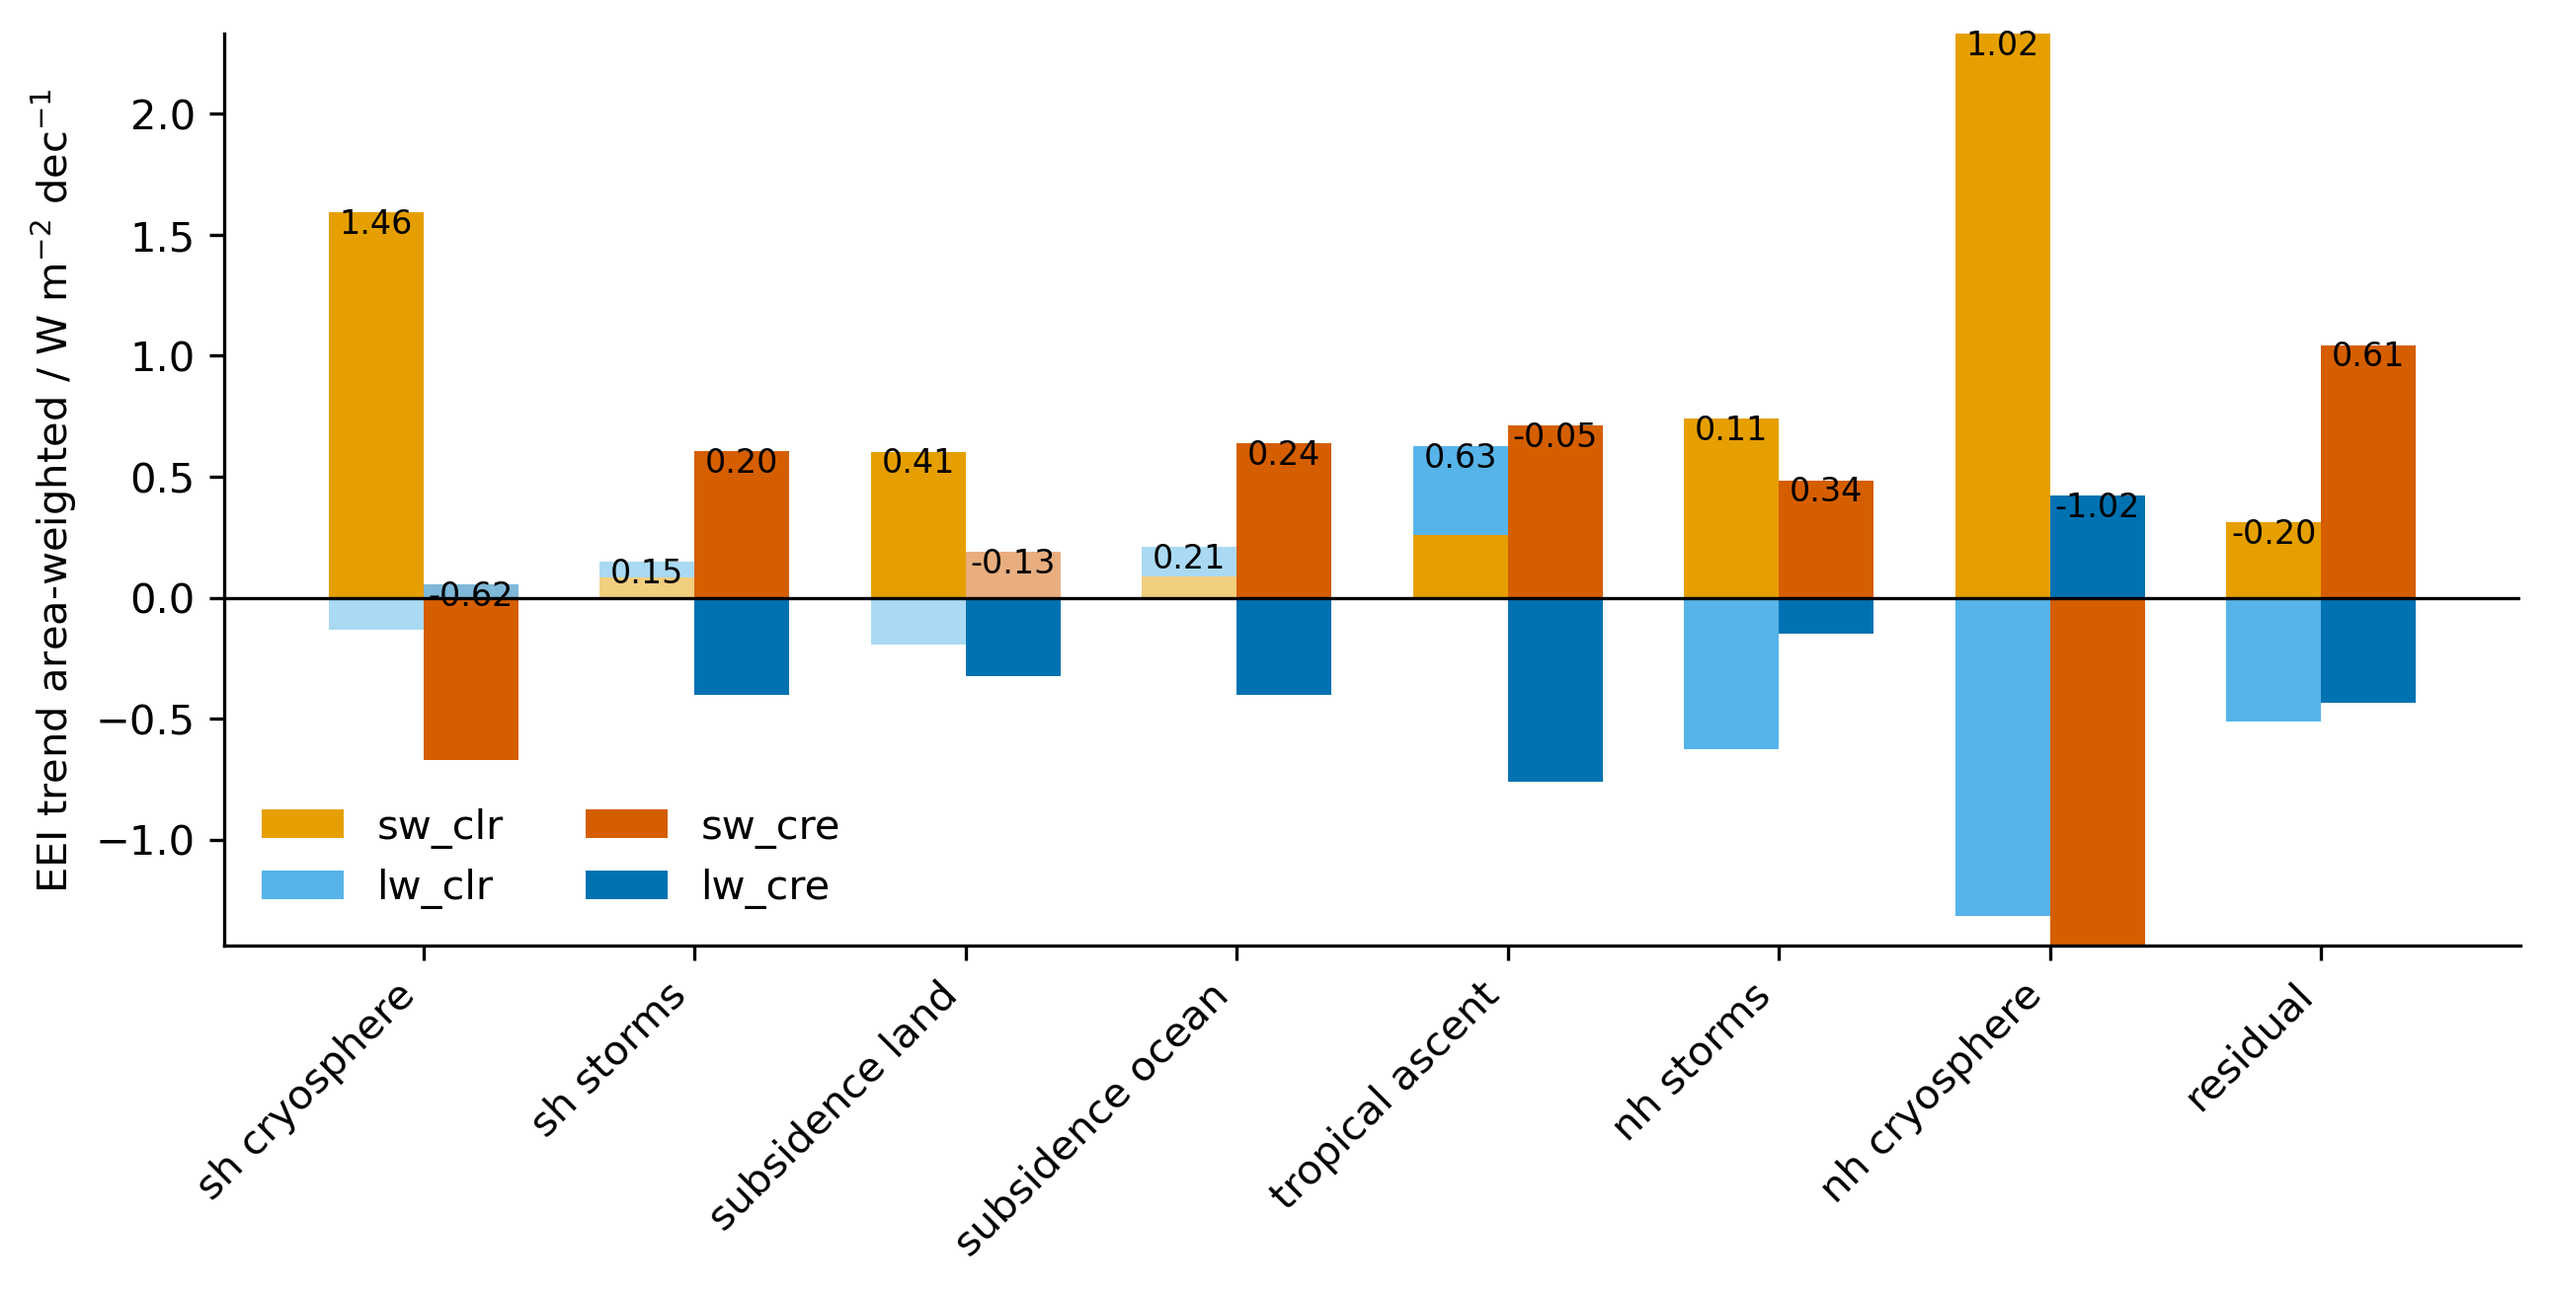
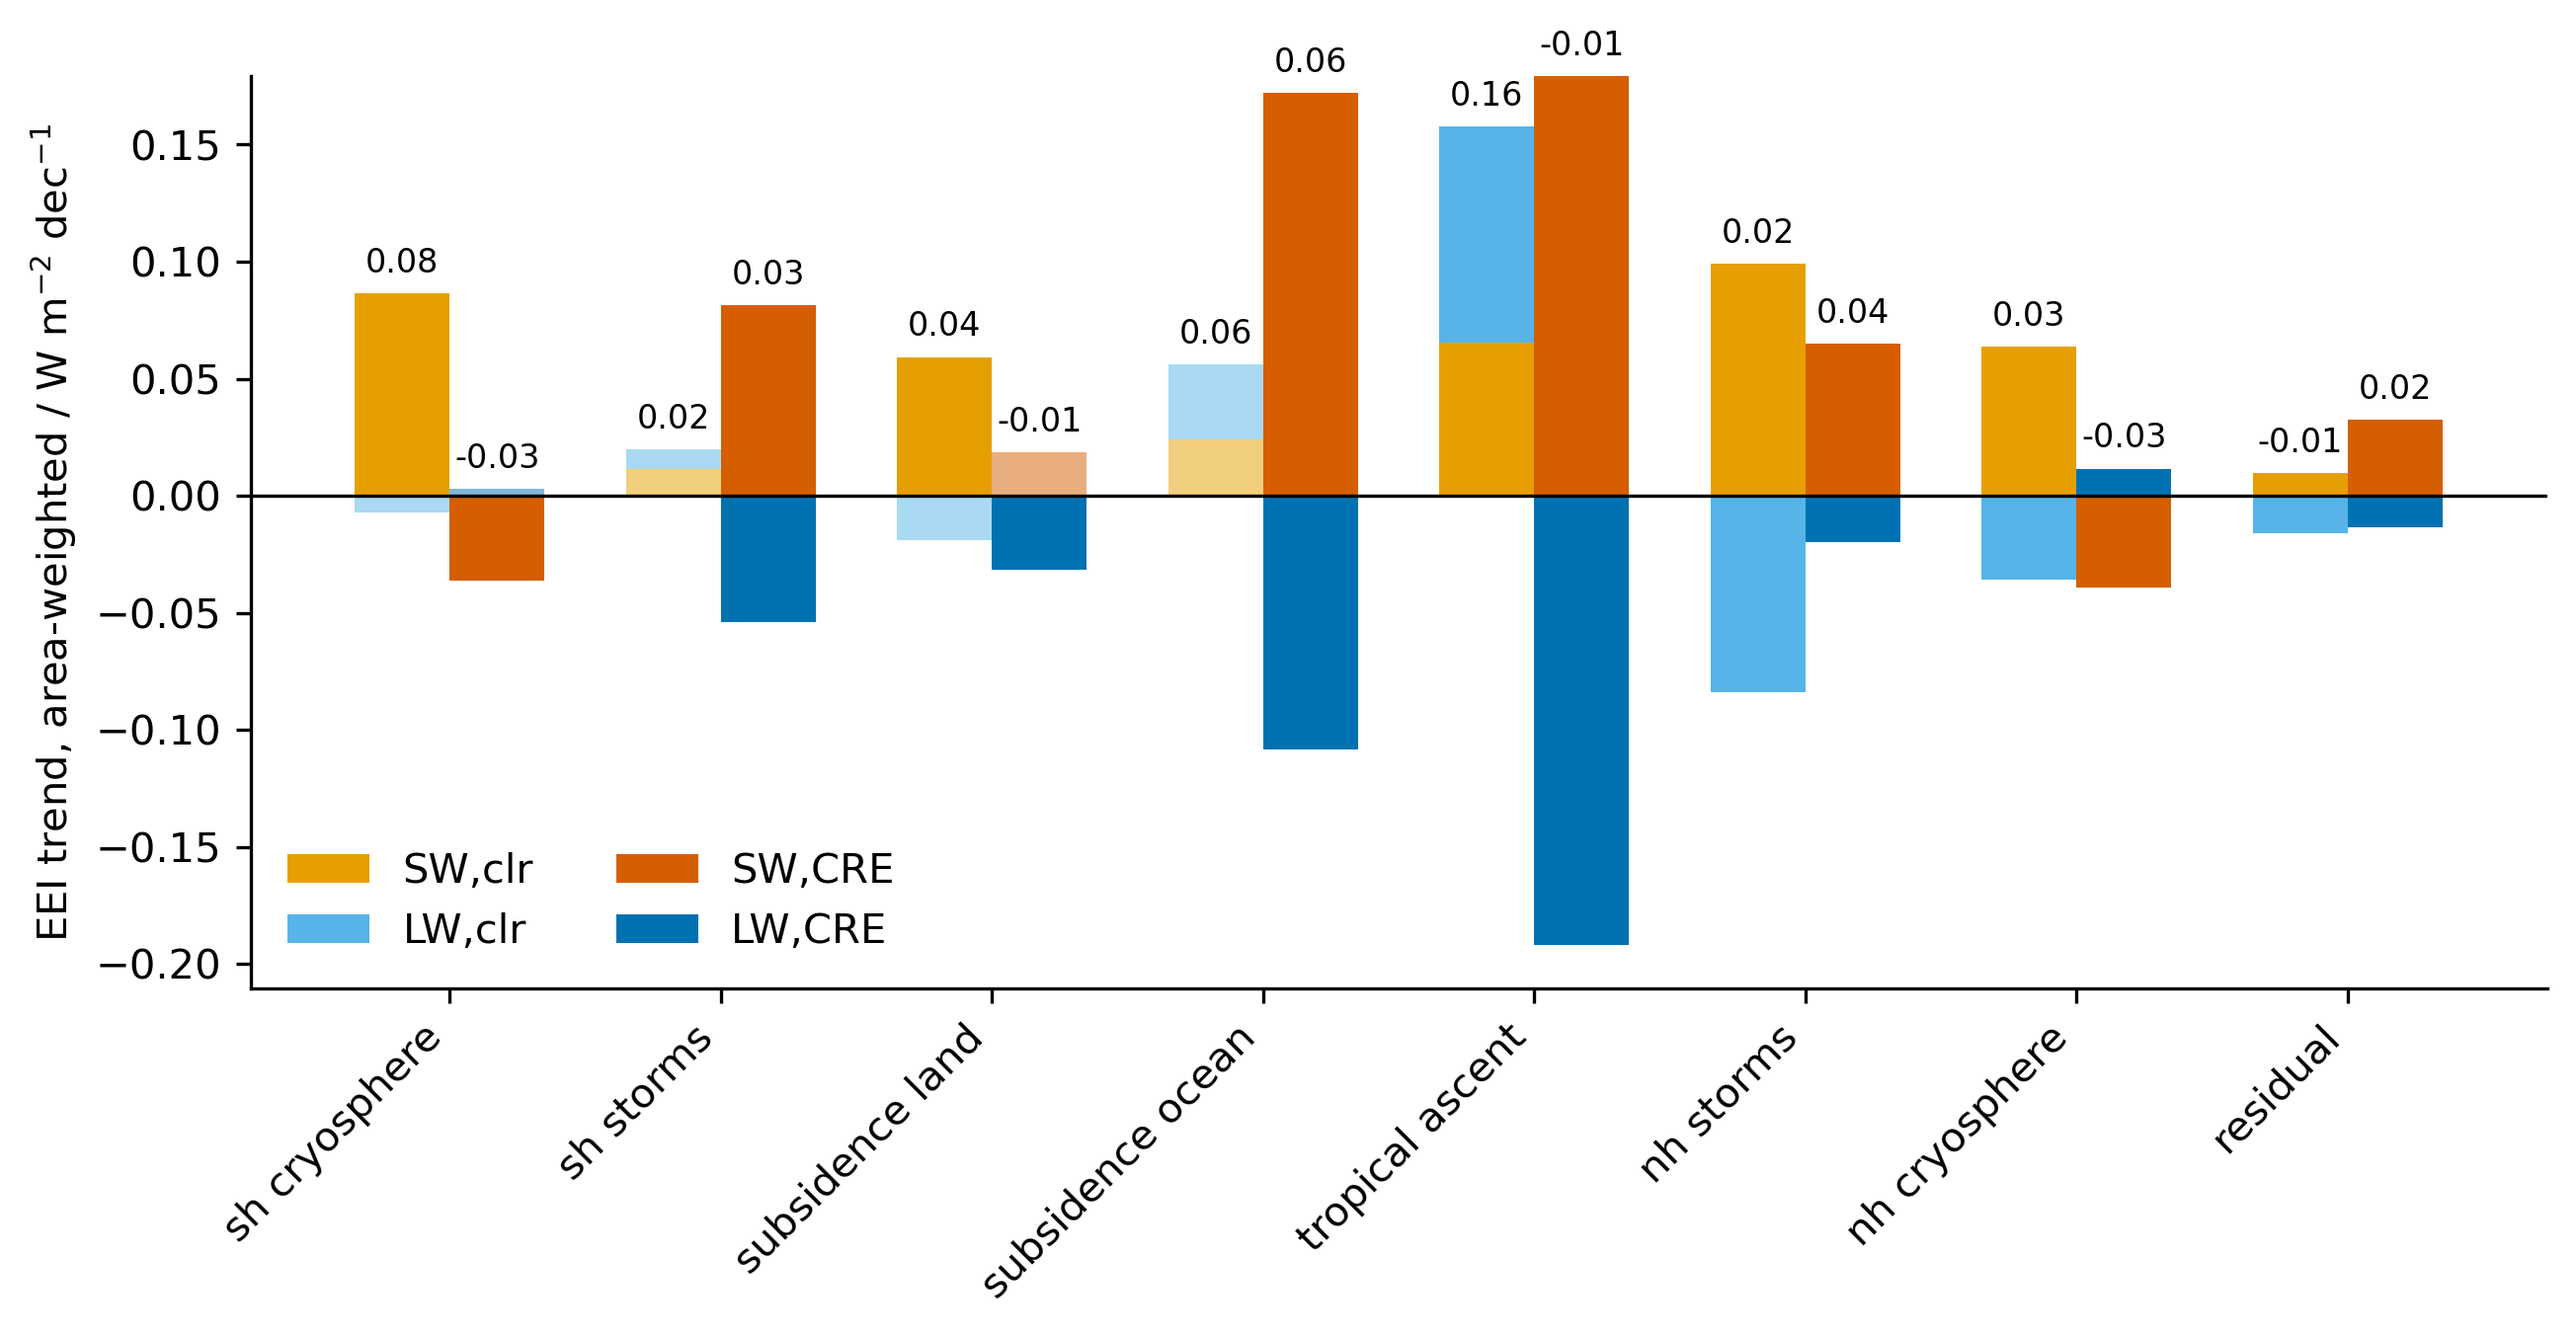
update legend. also fix bug with area-weighting in loop.

diff --git a/make_figs/trends_per_regime.py b/make_figs/trends_per_regime.py
@@ -11,6 +11,12 @@ colors = {
     "lw_clr": "#56B4E9",  # light blue (LW clear)
     "lw_cre": "#0072B2",  # dark blue (LW CRE)
 }
+nicenames = {
+    "sw_clr":"SW,clr",
+    "sw_cre":"SW,CRE",
+    "lw_clr":"LW,clr",
+    "lw_cre":"LW,CRE",
+}
 
 
 ds = xr.open_dataset("pp/regime_mean_trends.nc").sel(season=PLOT_SEASON)
@@ -21,7 +27,7 @@ ds = ds.sel(regime=[
 ])
 regimes = ds.regime.values
 
-for AREA_WEIGHT in [False, True]:
+for AREA_WEIGHT in [True, False]:
     if not AREA_WEIGHT:
         ds /= ds.area_fraction
 
@@ -50,7 +56,7 @@ for AREA_WEIGHT in [False, True]:
                     bottom=bottom_pos[i],
                     color=colors[key],
                     alpha=alpha_light + sig[i]*(1-alpha_light),
-                    label=key,
+                    label=nicenames[key],
                 )
 
                 ax.bar(x[i] - width/2, neg[i], width,
@@ -77,7 +83,7 @@ for AREA_WEIGHT in [False, True]:
     ax.set_xticklabels(rlabels, rotation=45, ha="right")
 
     if AREA_WEIGHT:
-        ax.set_ylabel("EEI trend area-weighted / W m$^{-2}$ dec$^{-1}$")
+        ax.set_ylabel("EEI trend, area-weighted / W m$^{-2}$ dec$^{-1}$")
     else:
         ax.set_ylabel("EEI trend / W m$^{-2}$ dec$^{-1}$")
     ax.axhline(0, color="k", linewidth=0.8)
